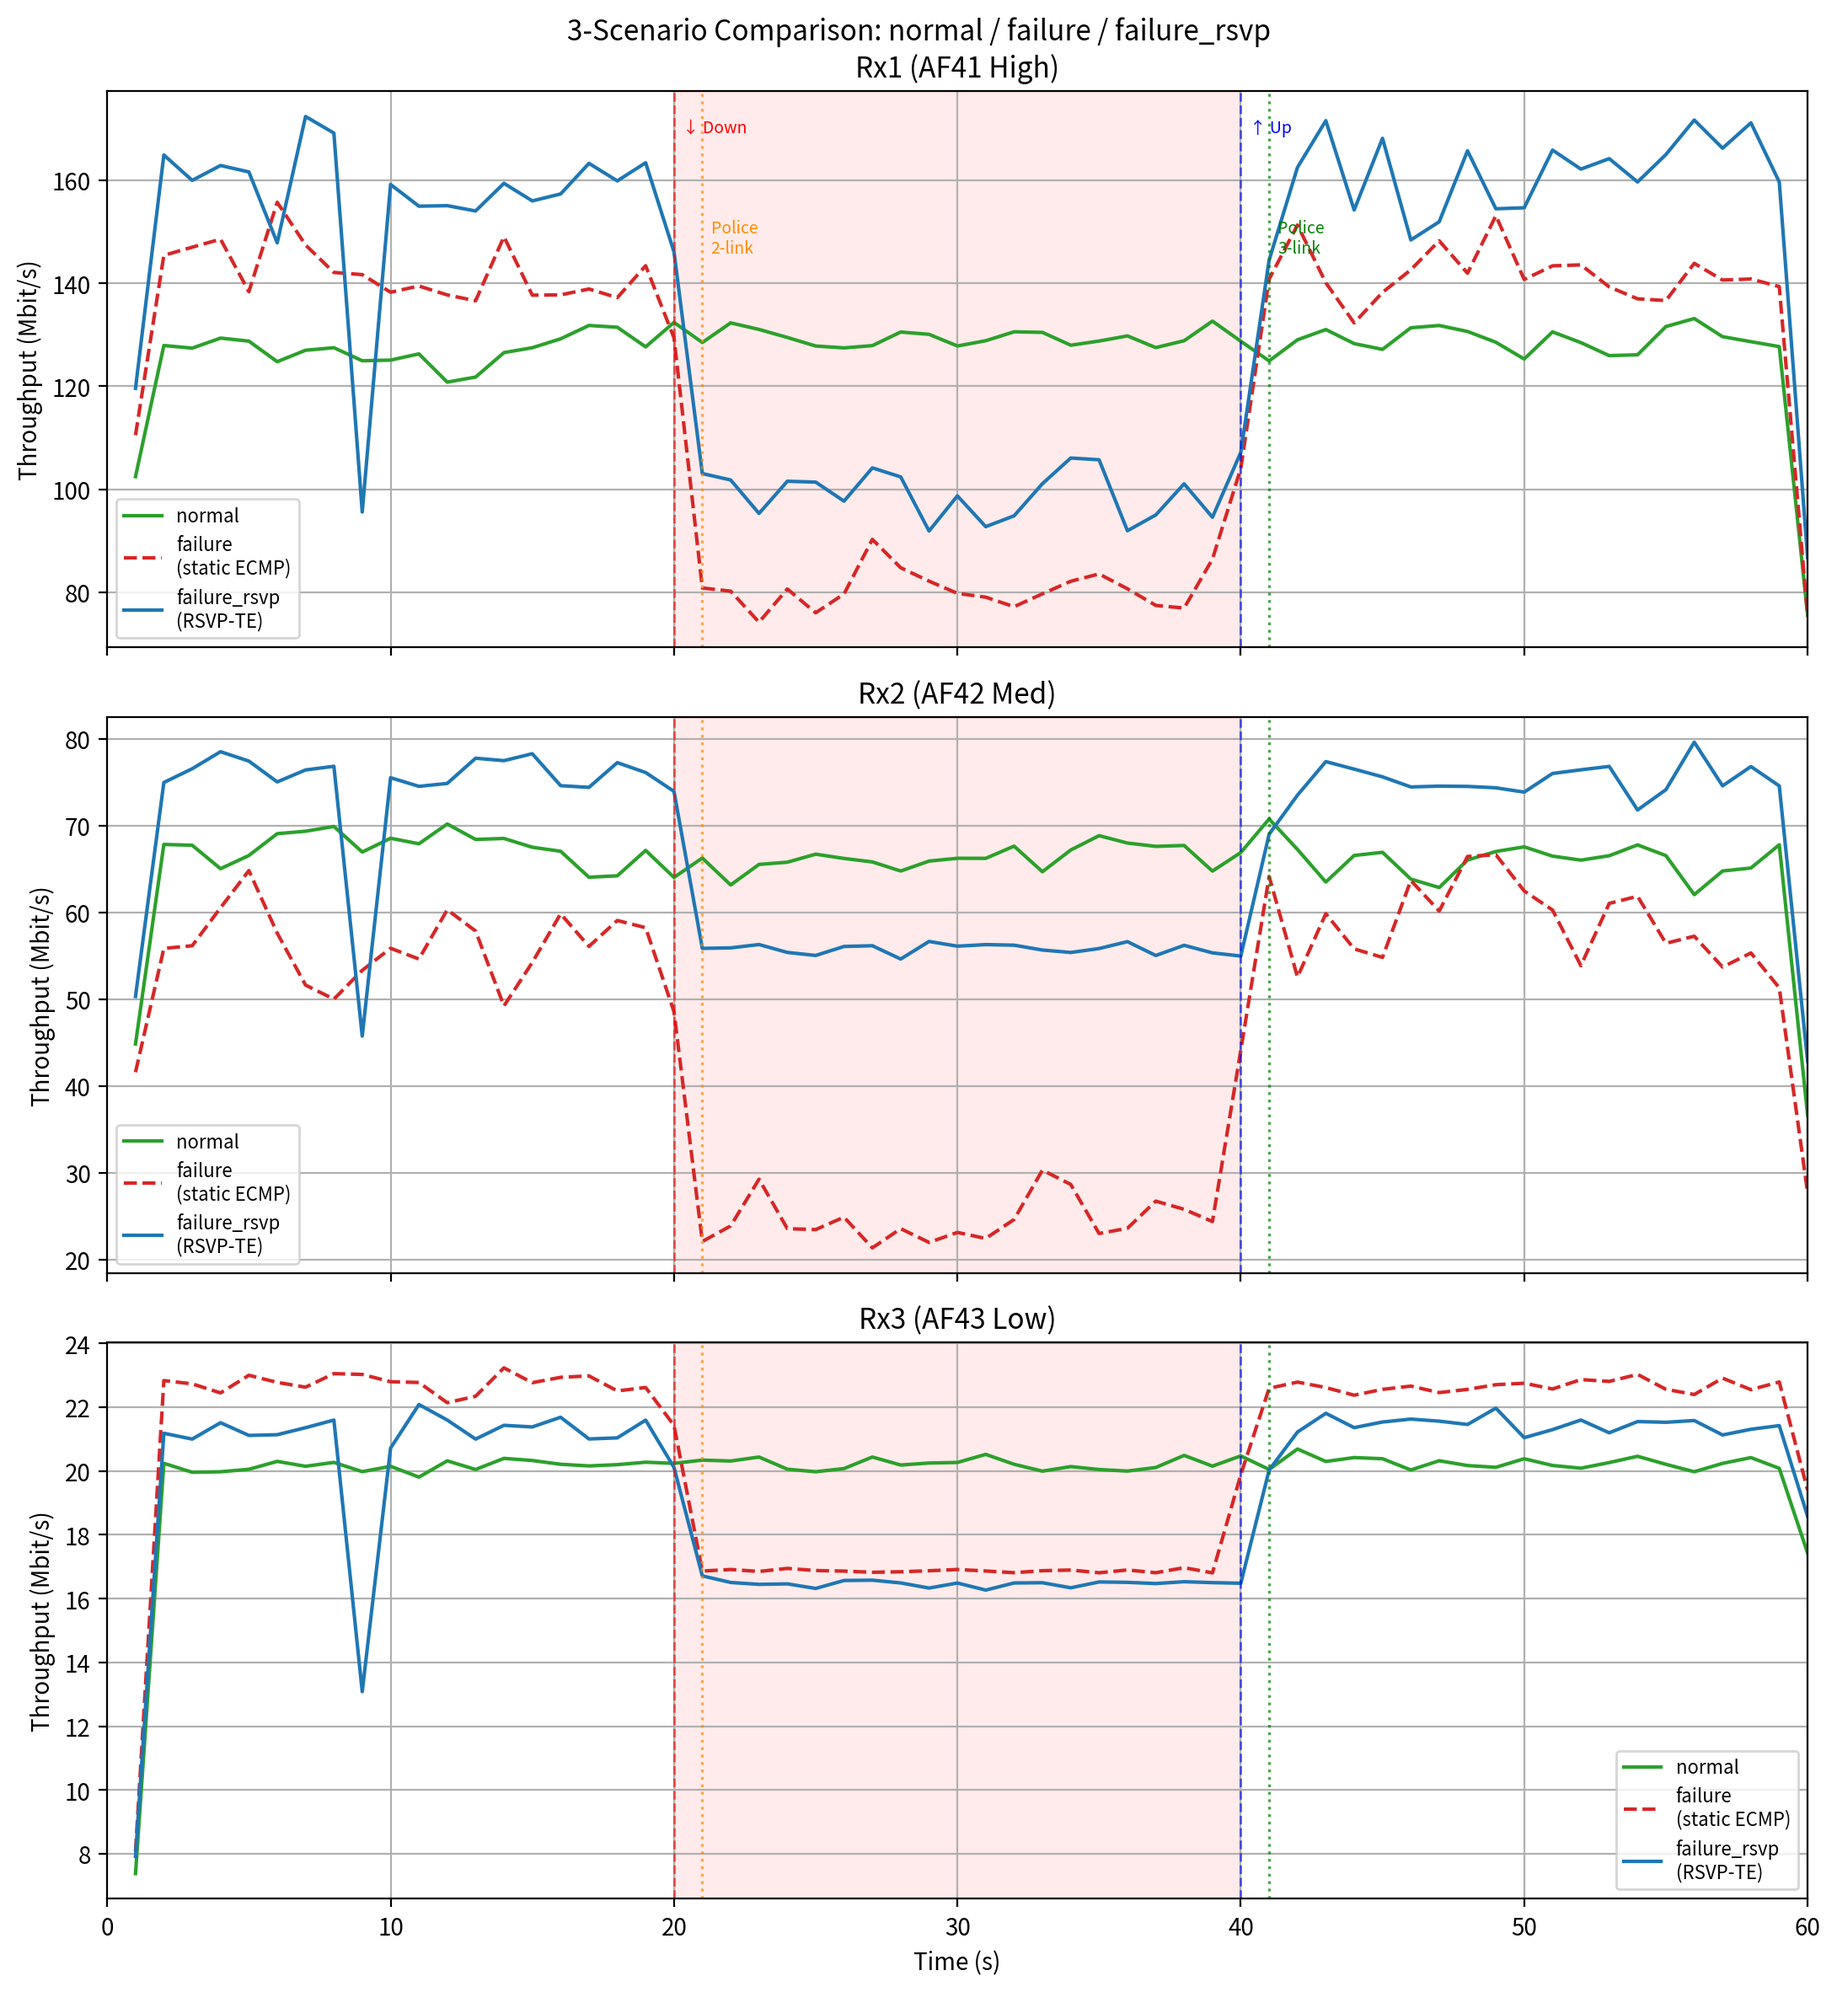
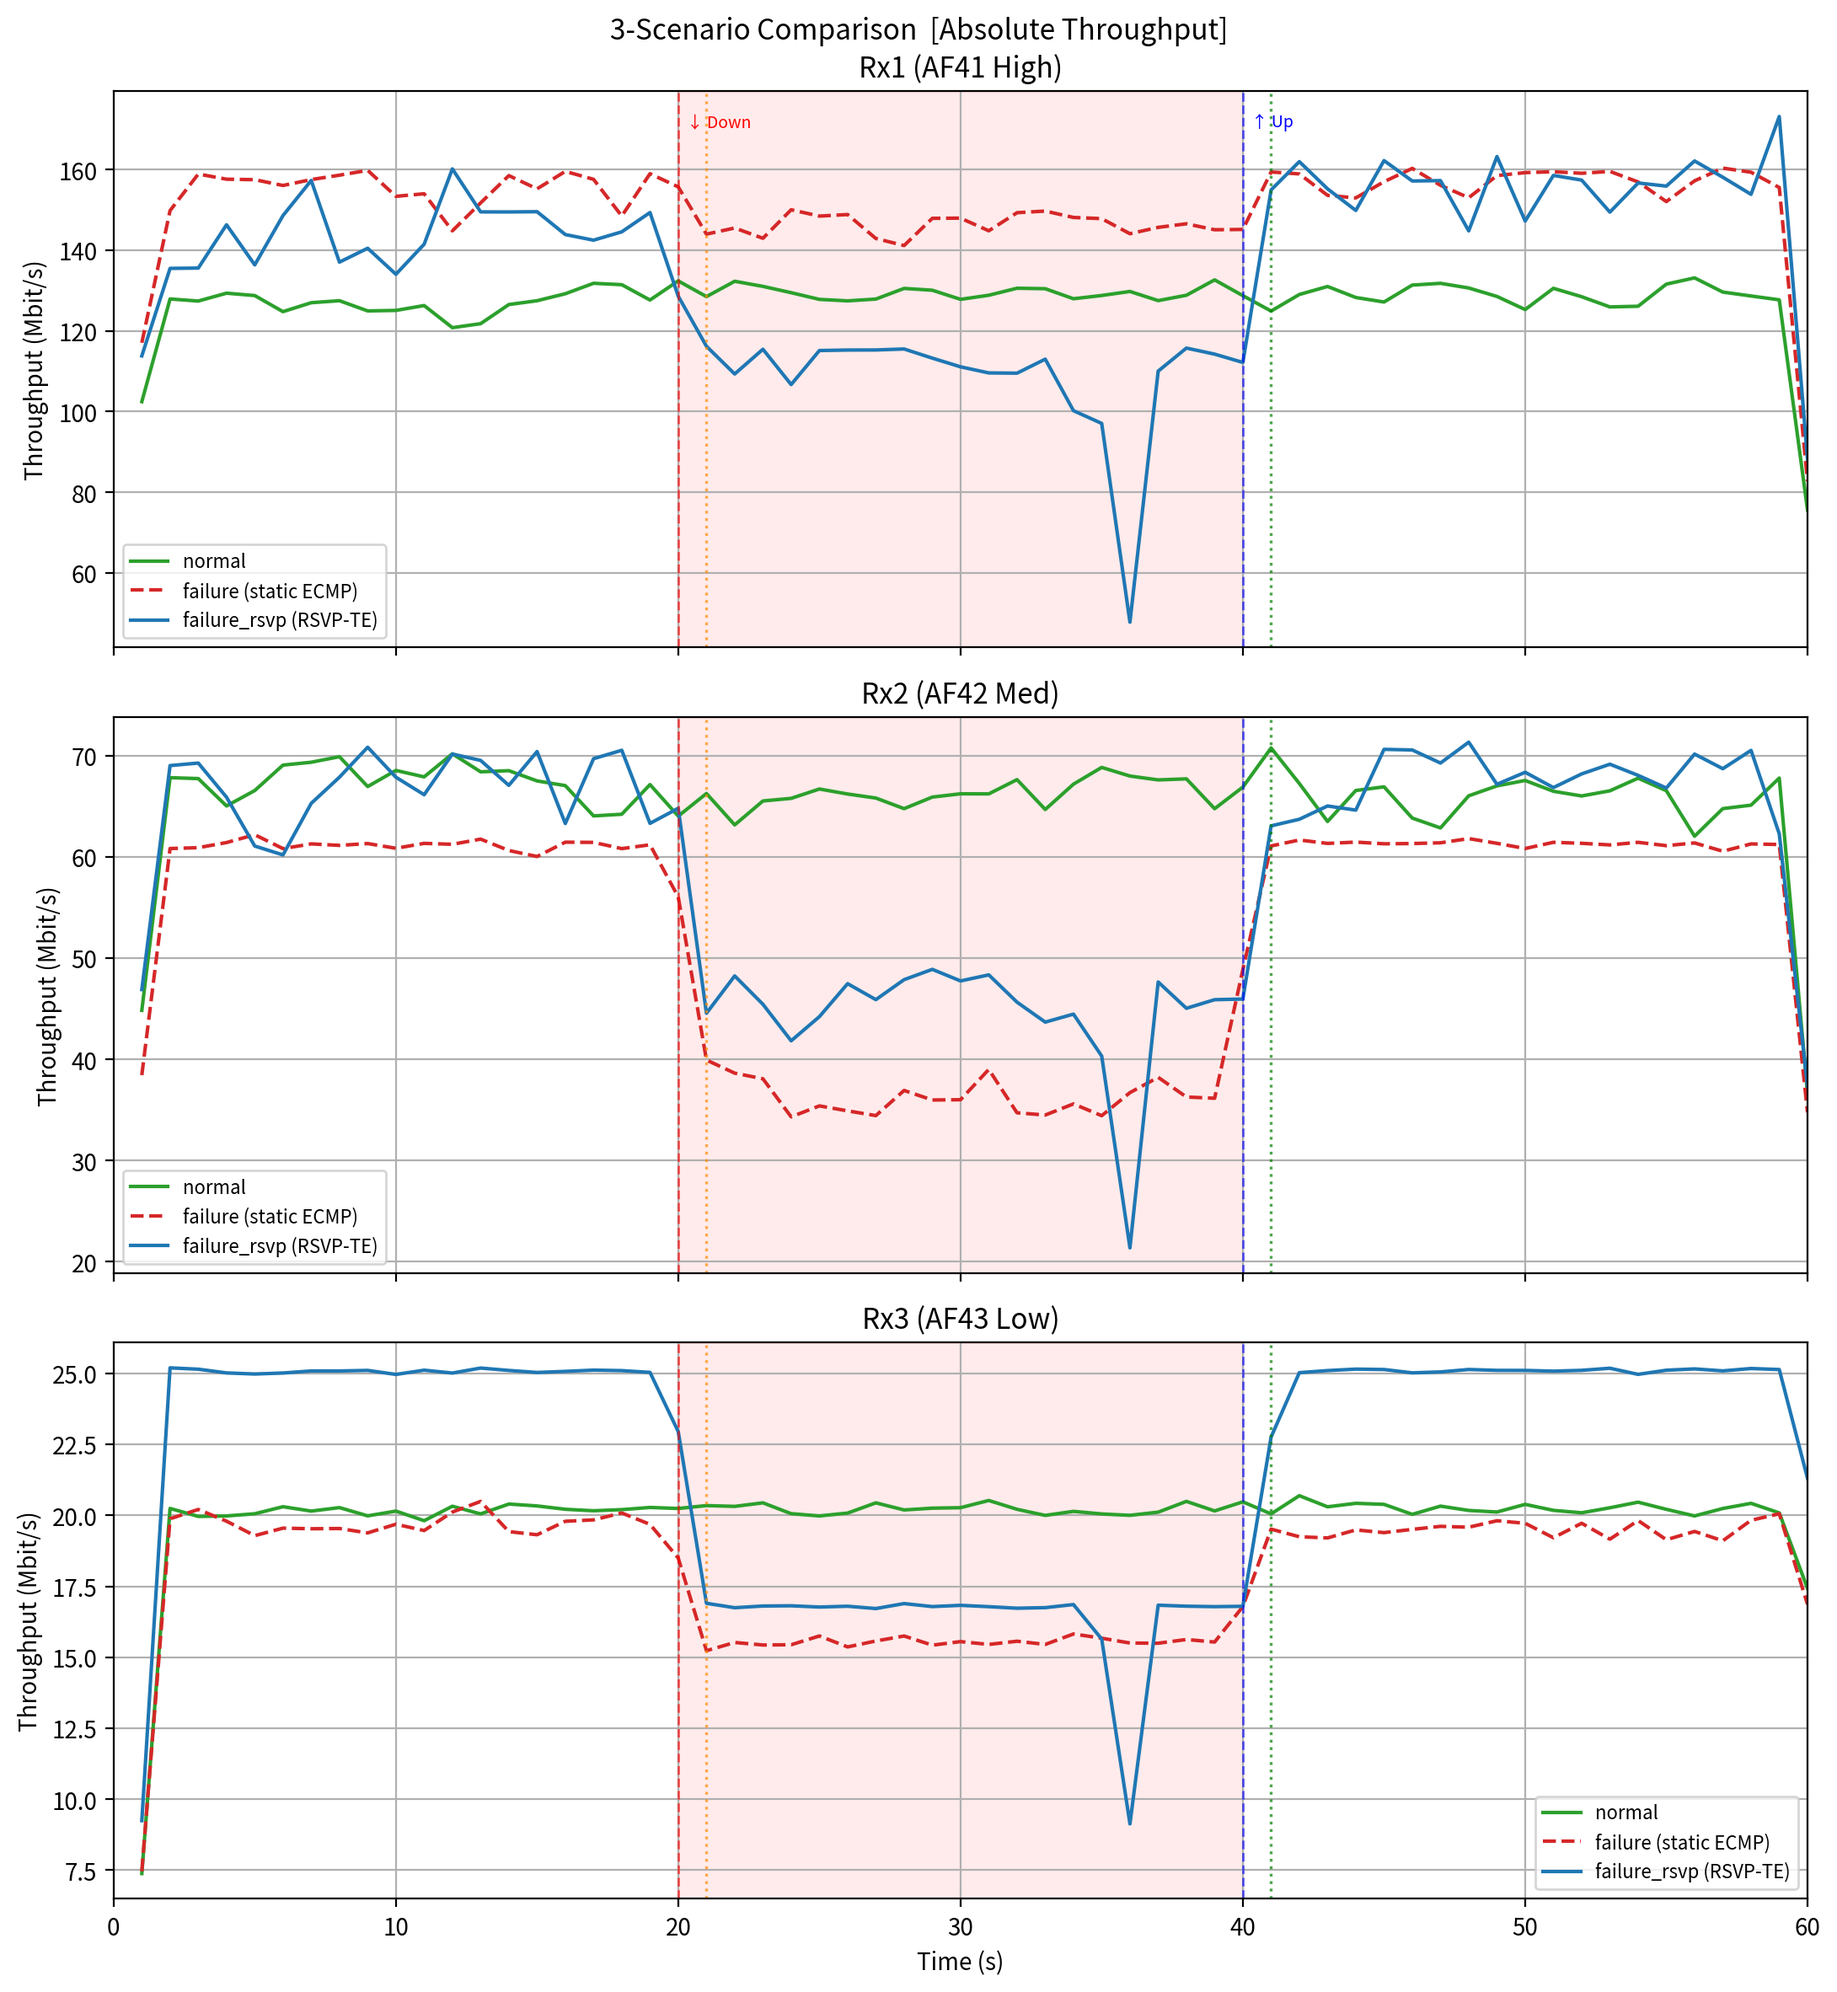
feat: add priority-class drop comparison charts
The absolute throughput comparison is misleading because ECMP hash
distributes each traffic class differently across links per run.
Result: failure scenario appeared "better" for AF41 simply because
its 9 streams happened to hash to CR2/CR3 (lucky draw).

Added two new comparison charts:
- compare_normalized.png: throughput normalized to pre-failure
  baseline per scenario (removes ECMP hash randomness)
- compare_priority_drop.png: bar chart of mean % throughput drop
  during t=20-40s per priority class, for failure vs failure_rsvp

Key insight visible in compare_priority_drop.png:
  failure:      AF41=6% drop, AF42=41% drop  (priority INVERTED!)
  failure_rsvp: AF41=25% drop, AF42=34% drop (more uniform, WRR maintained)
Without RSVP-TE, medium priority traffic takes the heaviest hit —
completely unpredictable depending on hash luck.

diff --git a/results/plot_rx.py b/results/plot_rx.py
@@ -444,52 +444,147 @@ def plot_packet_loss(outdir: Path, scenario_title: str):
     print(f"[*] saved: {out}")
 
 
+def _baseline_mean(t_vals, mbps_vals, t_start=2, t_end=None):
+    """障害前ベースライン平均を計算 (t_end=None → FAILURE_START の 1s 前まで)"""
+    if t_end is None:
+        t_end = FAILURE_START - 1
+    vals = [v for tv, v in zip(t_vals, mbps_vals) if t_start <= tv <= t_end]
+    return float(np.mean(vals)) if vals else None
+
+
 def compare_scenarios(base_dir: Path):
-    """3シナリオ比較グラフ: failure / failure_rsvp / normal の Rx3 スループット"""
+    """3シナリオ比較グラフ (絶対値 + 正規化の2種)"""
     scenarios = [
-        ("normal",       "normal",       "tab:green",  "-"),
-        ("failure",      "failure\n(static ECMP)", "tab:red",    "--"),
-        ("failure_rsvp", "failure_rsvp\n(RSVP-TE)", "tab:blue",   "-"),
+        ("normal",       "normal",                   "tab:green", "-"),
+        ("failure",      "failure (static ECMP)",    "tab:red",   "--"),
+        ("failure_rsvp", "failure_rsvp (RSVP-TE)",  "tab:blue",  "-"),
     ]
+    rx_labels  = ["Rx1 (AF41 High)", "Rx2 (AF42 Med)", "Rx3 (AF43 Low)"]
+    rx_indices = [1, 2, 3]
 
-    fig, axes = plt.subplots(3, 1, figsize=(11, 12), sharex=True)
-    rx_labels = ["Rx1 (AF41 High)", "Rx2 (AF42 Med)", "Rx3 (AF43 Low)"]
+    # ---- 1枚目: 絶対値 ----
+    fig1, axes1 = plt.subplots(3, 1, figsize=(11, 12), sharex=True)
+    fig1.suptitle("3-Scenario Comparison  [Absolute Throughput]", fontsize=12)
 
-    for ax, rx_idx, rx_label in zip(axes, [1, 2, 3], rx_labels):
+    # ---- 2枚目: ベースライン正規化 (ECMP ハッシュばらつきを除去) ----
+    fig2, axes2 = plt.subplots(3, 1, figsize=(11, 12), sharex=True)
+    fig2.suptitle(
+        "3-Scenario Comparison  [Normalized to Pre-Failure Baseline]\n"
+        "ECMP hash randomness removed — shows true QoS effect",
+        fontsize=11,
+    )
+
+    for ax1, ax2, rx_idx, rx_label in zip(axes1, axes2, rx_indices, rx_labels):
         for dirname, legend_name, color, ls in scenarios:
             csv_path = base_dir / dirname / "throughput.csv"
             if not csv_path.exists():
                 continue
             t, mbps = load_csv_throughput(csv_path, rx_idx)
-            ax.plot(t, mbps, label=legend_name, color=color, linestyle=ls, linewidth=1.5)
+            if not t:
+                continue
 
-        # 障害区間マーカー
-        ax.axvspan(FAILURE_START, FAILURE_END, alpha=0.08, color="red")
-        ax.axvline(FAILURE_START, color="red",  linestyle="--", linewidth=1.0, alpha=0.6)
-        ax.axvline(FAILURE_END,   color="blue", linestyle="--", linewidth=1.0, alpha=0.6)
-        # RSVP-TE POLICE タイミング
-        ax.axvline(POLICE_DOWN, color="darkorange", linestyle=":", linewidth=1.2, alpha=0.7)
-        ax.axvline(POLICE_UP,   color="green",      linestyle=":", linewidth=1.2, alpha=0.7)
+            # 絶対値グラフ
+            ax1.plot(t, mbps, label=legend_name, color=color, linestyle=ls, linewidth=1.5)
 
-        ax.set_xlim(0, 60)
-        ax.set_ylabel("Throughput (Mbit/s)")
-        ax.set_title(rx_label)
-        ax.legend(fontsize=8)
-        ax.grid(True)
+            # 正規化グラフ: failure/failure_rsvp はベースライン比, normal は 100% 基準線
+            if dirname == "normal":
+                ax2.axhline(100, color=color, linestyle=ls, linewidth=1.2,
+                            alpha=0.6, label=legend_name)
+            else:
+                base = _baseline_mean(t, mbps)
+                if base and base > 0:
+                    norm = [v / base * 100 for v in mbps]
+                    ax2.plot(t, norm, label=f"{legend_name}\n(base={base:.0f}Mbps)",
+                             color=color, linestyle=ls, linewidth=1.5)
 
-    # 凡例注記
-    axes[0].text(FAILURE_START + 0.3, axes[0].get_ylim()[1] * 0.97, "↓ Down", color="red",       fontsize=7, va="top")
-    axes[0].text(FAILURE_END   + 0.3, axes[0].get_ylim()[1] * 0.97, "↑ Up",   color="blue",      fontsize=7, va="top")
-    axes[0].text(POLICE_DOWN   + 0.3, axes[0].get_ylim()[1] * 0.86, "Police\n2-link", color="darkorange", fontsize=7, va="top")
-    axes[0].text(POLICE_UP     + 0.3, axes[0].get_ylim()[1] * 0.86, "Police\n3-link", color="green",      fontsize=7, va="top")
+        for ax in (ax1, ax2):
+            ax.axvspan(FAILURE_START, FAILURE_END, alpha=0.08, color="red")
+            ax.axvline(FAILURE_START, color="red",  linestyle="--", linewidth=1.0, alpha=0.6)
+            ax.axvline(FAILURE_END,   color="blue", linestyle="--", linewidth=1.0, alpha=0.6)
+            ax.axvline(POLICE_DOWN, color="darkorange", linestyle=":", linewidth=1.2, alpha=0.7)
+            ax.axvline(POLICE_UP,   color="green",      linestyle=":", linewidth=1.2, alpha=0.7)
+            ax.set_xlim(0, 60)
+            ax.set_title(rx_label)
+            ax.legend(fontsize=8)
+            ax.grid(True)
 
-    axes[-1].set_xlabel("Time (s)")
-    fig.suptitle("3-Scenario Comparison: normal / failure / failure_rsvp", fontsize=12)
-    fig.tight_layout()
-    out = base_dir / "compare_all_scenarios.png"
-    fig.savefig(out, dpi=FIG_DPI, bbox_inches="tight")
-    plt.close(fig)
-    print(f"[*] saved: {out}")
+        ax1.set_ylabel("Throughput (Mbit/s)")
+        ax2.set_ylabel("Throughput (% of pre-failure baseline)")
+
+    for axes in (axes1, axes2):
+        axes[0].text(FAILURE_START + 0.3, axes[0].get_ylim()[1] * 0.97,
+                     "↓ Down", color="red",  fontsize=7, va="top")
+        axes[0].text(FAILURE_END   + 0.3, axes[0].get_ylim()[1] * 0.97,
+                     "↑ Up",   color="blue", fontsize=7, va="top")
+        axes[-1].set_xlabel("Time (s)")
+
+    fig1.tight_layout()
+    out1 = base_dir / "compare_all_scenarios.png"
+    fig1.savefig(out1, dpi=FIG_DPI, bbox_inches="tight")
+    plt.close(fig1)
+    print(f"[*] saved: {out1}")
+
+    fig2.tight_layout()
+    out2 = base_dir / "compare_normalized.png"
+    fig2.savefig(out2, dpi=FIG_DPI, bbox_inches="tight")
+    plt.close(fig2)
+    print(f"[*] saved: {out2}")
+
+    # ---- 3枚目: 障害区間の平均ドロップ率バーチャート ----
+    _bar_data = {}
+    for dirname, legend_name, color, ls in scenarios:
+        if dirname == "normal":
+            continue
+        csv_path = base_dir / dirname / "throughput.csv"
+        if not csv_path.exists():
+            continue
+        drops = []
+        for rx_idx in rx_indices:
+            t, mbps = load_csv_throughput(csv_path, rx_idx)
+            base = _baseline_mean(t, mbps)
+            fail = _baseline_mean(t, mbps, t_start=FAILURE_START+1, t_end=FAILURE_END-1)
+            if base and base > 0 and fail is not None:
+                drops.append((1.0 - fail / base) * 100)
+            else:
+                drops.append(0.0)
+        _bar_data[legend_name] = (color, drops)
+
+    if _bar_data:
+        fig3, ax3 = plt.subplots(figsize=(8, 5))
+        cls_names = ["AF41\n(High)", "AF42\n(Med)", "AF43\n(Low)"]
+        x = np.arange(len(cls_names))
+        width = 0.35
+        for i, (legend_name, (color, drops)) in enumerate(_bar_data.items()):
+            offset = (i - (len(_bar_data) - 1) / 2) * width
+            bars = ax3.bar(x + offset, drops, width, label=legend_name,
+                           color=color, alpha=0.8, edgecolor="white")
+            for bar, v in zip(bars, drops):
+                ax3.text(bar.get_x() + bar.get_width() / 2,
+                         bar.get_height() + 0.5,
+                         f"{v:.1f}%", ha="center", va="bottom", fontsize=9)
+        ax3.set_xticks(x)
+        ax3.set_xticklabels(cls_names)
+        ax3.set_ylabel("Throughput Drop during Failure (%)")
+        ax3.set_title(
+            "Priority Class Impact during Failure\n"
+            "(% drop vs pre-failure baseline, t=20-40s)",
+            fontsize=11,
+        )
+        ax3.legend()
+        ax3.grid(axis="y", alpha=0.3)
+        all_drops = [v for _, (_, drops) in _bar_data.items() for v in drops]
+        ax3.set_ylim(0, max(max(all_drops) * 1.3, 10) + 5)
+        # WRR priority annotation
+        ax3.text(0.98, 0.98,
+                 "Ideal: AF41 < AF42 < AF43\n(high priority drops less)",
+                 transform=ax3.transAxes, ha="right", va="top",
+                 fontsize=8, color="gray",
+                 bbox=dict(boxstyle="round", fc="white", alpha=0.7))
+        fig3.tight_layout()
+        out3 = base_dir / "compare_priority_drop.png"
+        fig3.savefig(out3, dpi=FIG_DPI, bbox_inches="tight")
+        plt.close(fig3)
+        print(f"[*] saved: {out3}")
 
 
 if __name__ == "__main__":
